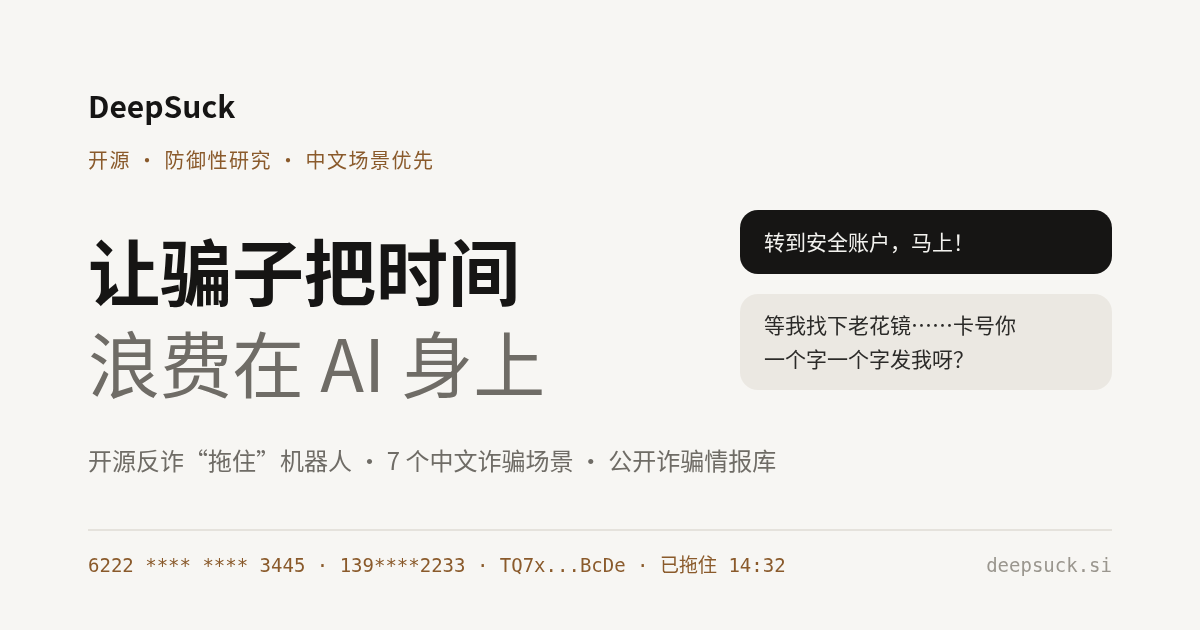
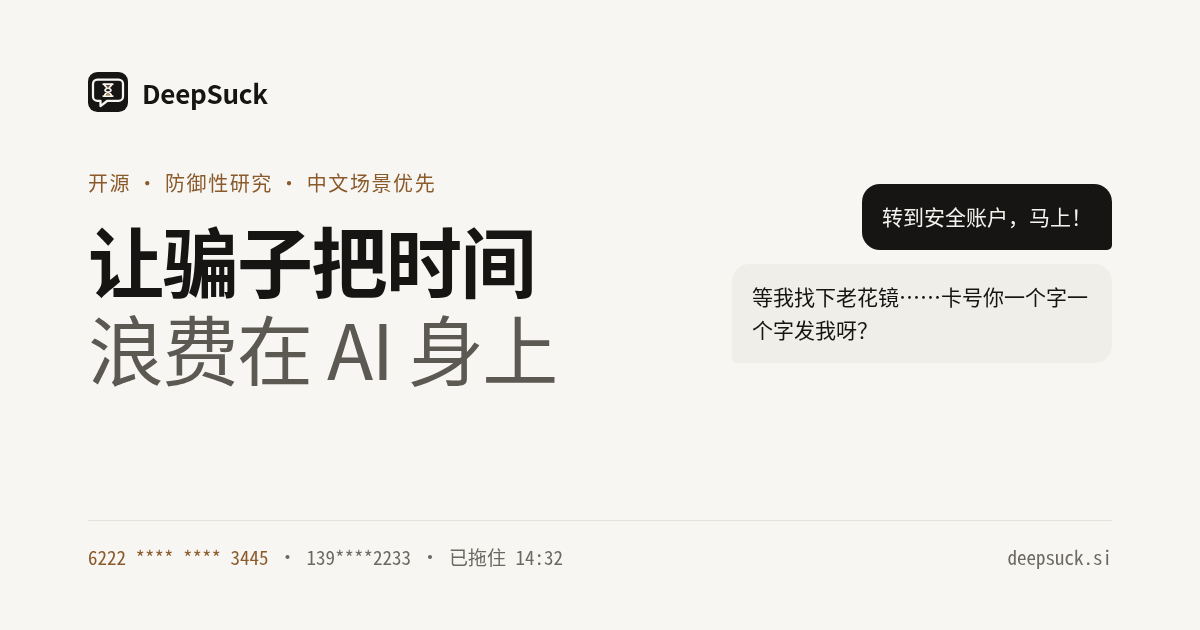
seo: description/canonical/OG/Twitter on demo and intel, per-page OG images rendered from an HTML template (npm run og), robots.txt, sitemap.xml, 404.html, JSON-LD (WebSite + SoftwareSourceCode, Dataset)

diff --git a/scripts/og/og.html b/scripts/og/og.html
@@ -1,0 +1,50 @@
+<!doctype html>
+<!-- DeepSuck — Open Graph 图模板（1200×630）。由 scripts/og.js 用无头 Chrome 渲染为 site/assets/og*.png。?v=home|demo|intel -->
+<html lang="zh-CN">
+<head>
+<meta charset="utf-8">
+<style>
+  :root{--bg:#f7f6f3;--surface:#fff;--sunk:#f0eee9;--line:#e5e2dc;--ink:#161514;--muted:#5c5953;--dim:#6c6963;--accent:#8a5a2b}
+  *{box-sizing:border-box;margin:0}
+  html,body{width:1200px;height:630px;background:var(--bg);color:var(--ink);font-family:"PingFang SC","Noto Sans CJK SC","Noto Sans SC","Source Han Sans SC",sans-serif;-webkit-font-smoothing:antialiased}
+  .page{position:relative;width:1200px;height:630px;padding:72px 88px}
+  .brand{display:flex;align-items:center;gap:14px;font-size:26px;font-weight:600;letter-spacing:-.01em}
+  .brand img{width:40px;height:40px}
+  .eyebrow{margin-top:56px;font-size:20px;letter-spacing:.08em;color:var(--accent)}
+  h1{margin-top:18px;font-size:76px;line-height:1.16;font-weight:600;letter-spacing:-.02em}
+  h1 em{display:block;font-style:normal;font-weight:400;color:var(--muted)}
+  .chat{position:absolute;right:88px;top:184px;width:380px;display:flex;flex-direction:column;gap:14px}
+  .b{padding:16px 20px;border-radius:18px;font-size:21px;line-height:1.6}
+  .r{align-self:flex-end;background:var(--ink);color:#f3f2ef;border-bottom-right-radius:5px}
+  .s{align-self:flex-start;background:var(--sunk);border-bottom-left-radius:5px}
+  .foot{position:absolute;left:88px;right:88px;bottom:60px;display:flex;justify-content:space-between;align-items:baseline;border-top:1px solid var(--line);padding-top:22px;font-family:"Noto Sans Mono CJK SC",ui-monospace,Menlo,monospace;font-size:19px;color:var(--dim)}
+  .foot b{font-weight:400;color:var(--accent)}
+</style>
+</head>
+<body>
+<div class="page">
+  <div class="brand"><img src="../../site/assets/logo.svg" alt="">DeepSuck</div>
+  <p class="eyebrow" id="eyebrow">开源 · 防御性研究 · 中文场景优先</p>
+  <h1 id="title">让骗子把时间<em>浪费在 AI 身上</em></h1>
+  <div class="chat" id="chat">
+    <div class="b r">转到安全账户，马上！</div>
+    <div class="b s">等我找下老花镜……卡号你一个字一个字发我呀？</div>
+  </div>
+  <div class="foot"><span id="foot"><b>6222 **** **** 3445</b> · 139****2233 · 已拖住 14:32</span><span>deepsuck.si</span></div>
+</div>
+<script>
+  var V = {
+    demo: { eyebrow: '沙盒演示 · 你扮演骗子', title: '试试能不能<em>骗到王阿姨</em>',
+      foot: '<b>7 个场景</b> · 3 个人设 · 浏览器本地运行 · 无需 API Key' },
+    intel: { eyebrow: '公开诈骗情报库', title: '诈骗电话、钱包、网址<em>公开可查</em>',
+      foot: '<b>JSON / CSV</b> · 银行卡与姓名部分打码 · 可申诉下架', chat: false }
+  }[new URLSearchParams(location.search).get('v')];
+  if (V) {
+    document.getElementById('eyebrow').textContent = V.eyebrow;
+    document.getElementById('title').innerHTML = V.title;
+    document.getElementById('foot').innerHTML = V.foot;
+    if (V.chat === false) document.getElementById('chat').remove();
+  }
+</script>
+</body>
+</html>

diff --git a/site/intel.html b/site/intel.html
@@ -5,13 +5,32 @@
 <meta name="viewport" content="width=device-width,initial-scale=1">
 <title>公开诈骗情报库 · DeepSuck</title>
 <meta name="description" content="DeepSuck 公开诈骗情报库：诈骗电话、钱包地址、网址/APP 与话术完整公开，银行卡与姓名部分打码。支持检索、筛选与 JSON/CSV 下载。">
+<link rel="canonical" href="https://deepsuck.si/intel.html">
 <meta property="og:type" content="website">
 <meta property="og:site_name" content="DeepSuck">
 <meta property="og:title" content="DeepSuck 公开诈骗情报库">
 <meta property="og:description" content="诈骗电话、钱包地址、网址/APP 与话术完整公开，银行卡与姓名部分打码。可检索、可下载。">
-<meta property="og:image" content="https://deepsuck.si/assets/og.png">
 <meta property="og:url" content="https://deepsuck.si/intel.html">
+<meta property="og:image" content="https://deepsuck.si/assets/og-intel.png">
+<meta property="og:image:width" content="1200">
+<meta property="og:image:height" content="630">
+<meta property="og:image:alt" content="DeepSuck 公开诈骗情报库">
+<meta property="og:locale" content="zh_CN">
 <meta name="twitter:card" content="summary_large_image">
+<meta name="twitter:title" content="DeepSuck 公开诈骗情报库">
+<meta name="twitter:description" content="诈骗电话、钱包地址、网址/APP 与话术完整公开，银行卡与姓名部分打码。可检索、可下载。">
+<meta name="twitter:image" content="https://deepsuck.si/assets/og-intel.png">
+<meta name="theme-color" content="#f7f6f3">
+<script type="application/ld+json">
+{"@context":"https://schema.org","@type":"Dataset","name":"DeepSuck 公开诈骗情报库","alternateName":"DeepSuck public scam intel library",
+"description":"诈骗电话、加密钱包地址、诈骗网址/APP 与话术模式；银行卡号与姓名部分打码。当前为示例数据，真实情报经审核后收录。",
+"url":"https://deepsuck.si/intel.html","inLanguage":"zh-CN","isAccessibleForFree":true,
+"license":"https://www.apache.org/licenses/LICENSE-2.0",
+"keywords":["反诈","诈骗电话","钓鱼网址","加密货币钱包","scam intelligence"],
+"creator":{"@type":"Organization","name":"DeepSuck contributors","url":"https://github.com/deepsucksi/deepsuck"},
+"distribution":[{"@type":"DataDownload","encodingFormat":"application/json","contentUrl":"https://deepsuck.si/data/intel.json"}],
+"isBasedOn":"https://deepsuck.si/data/intel.schema.json"}
+</script>
 <link rel="icon" href="favicon.svg" type="image/svg+xml">
 <link rel="stylesheet" href="assets/css/style.css">
 </head>

diff --git a/site/demo.html b/site/demo.html
@@ -4,6 +4,23 @@
 <meta charset="utf-8">
 <meta name="viewport" content="width=device-width,initial-scale=1">
 <title>沙盒演示 · DeepSuck</title>
+<meta name="description" content="在浏览器里扮演骗子，看 AI 人设王阿姨、李大爷、小林如何拖住你并提取脱敏情报。7 个高发中文诈骗场景，无需 API Key，本地运行。">
+<link rel="canonical" href="https://deepsuck.si/demo.html">
+<meta property="og:type" content="website">
+<meta property="og:site_name" content="DeepSuck">
+<meta property="og:title" content="DeepSuck 沙盒：你扮演骗子，试试能骗到谁">
+<meta property="og:description" content="7 个中文诈骗场景 × 3 个“受害人”人设，浏览器本地运行，情报自动脱敏。">
+<meta property="og:url" content="https://deepsuck.si/demo.html">
+<meta property="og:image" content="https://deepsuck.si/assets/og-demo.png">
+<meta property="og:image:width" content="1200">
+<meta property="og:image:height" content="630">
+<meta property="og:image:alt" content="DeepSuck 沙盒：你扮演骗子，试试能骗到谁">
+<meta property="og:locale" content="zh_CN">
+<meta name="twitter:card" content="summary_large_image">
+<meta name="twitter:title" content="DeepSuck 沙盒：你扮演骗子，试试能骗到谁">
+<meta name="twitter:description" content="7 个中文诈骗场景 × 3 个“受害人”人设，浏览器本地运行，情报自动脱敏。">
+<meta name="twitter:image" content="https://deepsuck.si/assets/og-demo.png">
+<meta name="theme-color" content="#f7f6f3">
 <link rel="icon" href="favicon.svg" type="image/svg+xml">
 <link rel="stylesheet" href="assets/css/style.css">
 </head>

diff --git a/scripts/og.js b/scripts/og.js
@@ -1,0 +1,26 @@
+#!/usr/bin/env node
+/*!
+ * DeepSuck — scripts/og.js：把 scripts/og/og.html 渲染为 1200×630 的 Open Graph 图。
+ *   npm i --no-save playwright-core && npm run og
+ * 输出：site/assets/og.png（首页）、og-demo.png、og-intel.png。Apache-2.0
+ */
+'use strict';
+const fs = require('fs');
+const path = require('path');
+const { pathToFileURL } = require('url');
+let chromium;
+try { ({ chromium } = require('playwright-core')); } catch (e) { console.error('缺少 playwright-core：npm i --no-save playwright-core'); process.exit(1); }
+const ROOT = path.resolve(__dirname, '..');
+const exe = process.env.CHROME_PATH || ['/usr/bin/google-chrome', '/usr/bin/chromium', '/Applications/Google Chrome.app/Contents/MacOS/Google Chrome'].find((p) => fs.existsSync(p));
+(async () => {
+  const b = await chromium.launch(exe ? { executablePath: exe, args: ['--no-sandbox'] } : { channel: 'chrome' });
+  const page = await (await b.newContext({ viewport: { width: 1200, height: 630 }, deviceScaleFactor: 1 })).newPage();
+  for (const [v, name] of [['home', 'og.png'], ['demo', 'og-demo.png'], ['intel', 'og-intel.png']]) {
+    await page.goto(pathToFileURL(path.join(__dirname, 'og', 'og.html')).href + '?v=' + v);
+    await page.evaluate(() => document.fonts.ready);
+    const out = path.join(ROOT, 'site', 'assets', name);
+    await page.screenshot({ path: out, clip: { x: 0, y: 0, width: 1200, height: 630 } });
+    console.log('  site/assets/' + name + '  ' + Math.round(fs.statSync(out).size / 1024) + ' KB');
+  }
+  await b.close();
+})().catch((e) => { console.error(e); process.exit(1); });

diff --git a/site/index.html b/site/index.html
@@ -12,6 +12,7 @@
 <meta property="og:image" content="https://deepsuck.si/assets/og.png">
 <meta property="og:image:width" content="1200">
 <meta property="og:image:height" content="630">
+<meta property="og:image:alt" content="DeepSuck · 让骗子把时间浪费在 AI 身上">
 <meta property="og:url" content="https://deepsuck.si/">
 <meta property="og:locale" content="zh_CN">
 <meta name="twitter:card" content="summary_large_image">
@@ -21,6 +22,14 @@
 <meta name="theme-color" content="#f7f6f3">
 <link rel="canonical" href="https://deepsuck.si/">
 <link rel="icon" href="favicon.svg" type="image/svg+xml">
+<script type="application/ld+json">
+[{"@context":"https://schema.org","@type":"WebSite","name":"DeepSuck","url":"https://deepsuck.si/","inLanguage":["zh-CN","en"],
+"description":"开源的 AI 反诈“拖住”机器人：用受害人人设拖住骗子、提取脱敏诈骗情报，并公开诈骗情报库。"},
+{"@context":"https://schema.org","@type":"SoftwareSourceCode","name":"DeepSuck","codeRepository":"https://github.com/deepsucksi/deepsuck",
+"url":"https://deepsuck.si/","license":"https://www.apache.org/licenses/LICENSE-2.0","programmingLanguage":["JavaScript","Python"],
+"runtimePlatform":["Web browser","Node.js","Python"],"description":"Open-source anti-scam time-waster bot with in-browser rule engine, masked intel extraction and an optional Qwen (DashScope) backend.",
+"author":{"@type":"Organization","name":"DeepSuck contributors"}}]
+</script>
 <link rel="stylesheet" href="assets/css/style.css">
 </head>
 <body>

diff --git a/site/404.html b/site/404.html
@@ -1,0 +1,36 @@
+<!doctype html>
+<html lang="zh-CN">
+<head>
+<meta charset="utf-8">
+<meta name="viewport" content="width=device-width,initial-scale=1">
+<title>页面不存在 · DeepSuck</title>
+<meta name="robots" content="noindex">
+<meta name="theme-color" content="#f7f6f3">
+<link rel="icon" href="/favicon.svg" type="image/svg+xml">
+<link rel="stylesheet" href="/assets/css/style.css">
+</head>
+<body>
+<header class="topbar">
+  <div class="wrap">
+    <a class="brand" href="/"><img src="/assets/logo.svg" alt="">DeepSuck</a>
+    <nav class="nav"><a class="btn small primary" href="/demo.html">进入沙盒</a></nav>
+  </div>
+</header>
+<main class="wrap notfound">
+  <p class="eyebrow">404</p>
+  <h1>这个页面不存在</h1>
+  <p class="lead">链接可能已失效或输错了。就像骗子发来的“官方网址”——点之前先看清楚。</p>
+  <div class="cta">
+    <a class="btn primary" href="/">返回首页</a>
+    <a class="btn" href="/demo.html">进入沙盒</a>
+    <a class="btn ghost" href="/intel.html">查诈骗情报库</a>
+  </div>
+</main>
+<footer>
+  <div class="wrap">
+    <span>DeepSuck · Apache-2.0</span>
+    <span>遇到诈骗请拨打 110 / 96110</span>
+  </div>
+</footer>
+</body>
+</html>

diff --git a/site/assets/css/style.css b/site/assets/css/style.css
@@ -331,3 +331,10 @@ section.end{padding:72px 0 96px}
 .menu-panel button{border-top:1px solid var(--line);border-radius:0 0 var(--radius-s) var(--radius-s);margin-top:4px;color:var(--muted)}
 .menu-panel [hidden]{display:none}
 @media (max-width:980px){.menu{display:block}.topbar .wrap{gap:12px}.nav{gap:14px}}
+
+/* 404 */
+.notfound{padding-top:140px;padding-bottom:160px}
+.notfound>*{max-width:720px}
+.notfound h1{font-size:44px;line-height:1.2;margin:0 0 24px}
+.notfound .lead{color:var(--muted);font-size:var(--fs-l);line-height:1.9;margin:0 0 40px}
+@media (max-width:640px){.notfound{padding-top:72px;padding-bottom:96px}.notfound h1{font-size:32px}}
